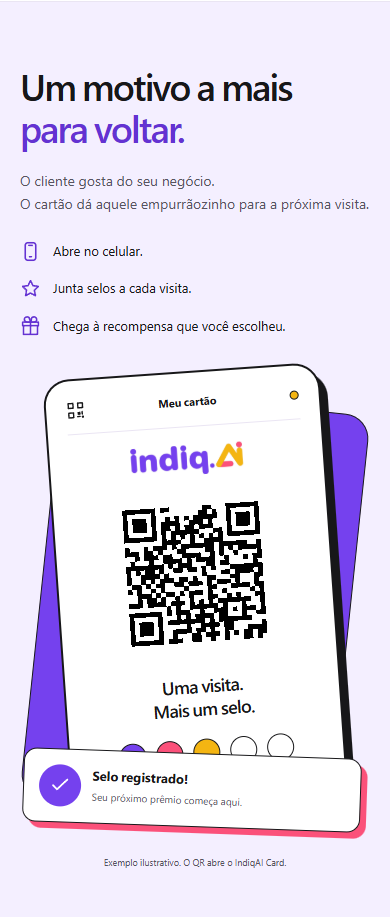
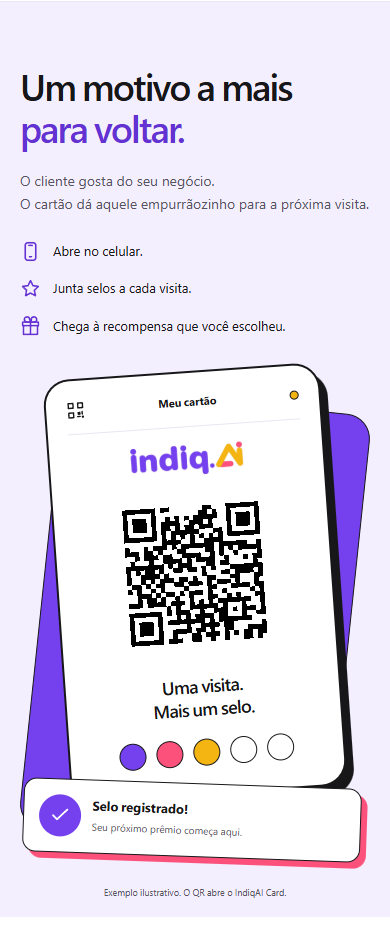
Keep new stamp visible and refine touch press feedback

Changed region(s): [[0.0308, 0.0607, 0.9538, 0.9414], [0.5846, 0.0607, 0.7692, 0.1215], [0.0923, 0.4252, 0.1231, 0.4859]]

diff --git a/styles.css b/styles.css
@@ -8,13 +8,12 @@
 .site-header{position:sticky;top:0;z-index:20;background:rgba(255,255,255,.97);border-bottom:1px solid #eae5f3}.header-inner{height:84px;display:flex;align-items:center;justify-content:space-between;gap:24px}.brand{display:inline-flex;align-items:center;min-height:44px;flex:none}.brand img{width:148px;height:40px;object-fit:contain}.nav{display:flex;align-items:center;gap:30px}.nav>a:not(.button){font-size:13px;display:inline-flex;align-items:center;min-height:44px;text-decoration:none}.nav>a:not(.button):hover{color:var(--purple-ink)}.menu-toggle{display:none}
 .hero{display:grid;grid-template-columns:minmax(0,1.08fr) minmax(0,1fr);align-items:center;gap:30px;padding-block:62px 38px;min-height:720px}.hero-copy{padding-bottom:30px}.hero h1{font-size:clamp(56px,5.7vw,80px);letter-spacing:-.06em;line-height:1.04}.hero h1 span{display:block}.hero-lede{max-width:480px;margin-top:26px;font-size:18px;line-height:1.7;color:var(--muted)}.hero-actions{display:flex;align-items:flex-start;flex-direction:column;gap:12px;margin-top:28px}.hero-note{font-size:12px;color:var(--muted);margin-top:13px}.hero-scene{position:relative;height:610px;min-width:0;isolation:isolate}.scene-backplate{position:absolute;inset:75px 26px 90px 23px;border-radius:38px;background:var(--lavender);transform:rotate(5deg);z-index:-1}.hero-phone{position:absolute;width:375px;max-width:86%;height:auto;top:4px;left:50%;transform:translateX(-50%) rotate(-4deg);border-radius:36px}.scene-dot{position:absolute;width:30px;height:30px;border:1.5px solid var(--black);border-radius:50%;z-index:1}.dot-pink{background:var(--pink);top:68px;right:20px;box-shadow:3px 3px 0 var(--black)}.dot-gold{background:var(--gold);bottom:94px;left:3px;width:20px;height:20px}.visit-ticket{position:absolute;bottom:67px;left:18px;right:12px;max-width:370px;display:flex;align-items:center;gap:13px;background:#fff;border:1.5px solid var(--black);border-radius:13px;padding:16px;box-shadow:6px 6px 0 var(--violet);transform:rotate(-2deg);z-index:2}.ticket-check{width:44px;height:44px;border-radius:50%;border:1.5px solid var(--black);display:grid;place-items:center;background:var(--gold);flex:none}.visit-ticket strong{display:block;font-size:15px;line-height:1.4}.visit-ticket div>span{font-size:11px;display:block;margin-top:3px;color:var(--muted)}.scene-caption{position:absolute;bottom:4px;left:0;width:100%;text-align:center;font-size:10px;color:var(--muted)}
 .brand-line{border-block:1px solid #eae5f3;background:#faf8ff}.brand-line>.wrap{display:flex;justify-content:space-between;gap:20px;padding-block:23px}.brand-line span{display:flex;align-items:center;gap:12px;font-size:13px;font-weight:500}.brand-line svg{color:var(--purple-ink);width:22px;height:22px}.section{padding-block:112px}h2{font-size:clamp(34px,3.8vw,50px);line-height:1.16}.section-intro>p,.customer-copy>p,.owner-heading>p,.audience-intro>p,.faq-intro>p{margin-top:22px;color:var(--muted);font-size:16px}.how{display:grid;grid-template-columns:minmax(0,1fr) minmax(0,1fr);column-gap:90px;align-items:start}.steps{list-style:none;margin:0;padding:0;grid-column:2;grid-row:1 / span 2}.steps li{display:grid;grid-template-columns:66px minmax(0,1fr);gap:23px;align-items:start;padding-bottom:33px;position:relative}.steps li:last-child{padding-bottom:0}.steps li:not(:last-child)::after{content:'';position:absolute;top:76px;bottom:10px;left:31px;width:1px;background:#d9c9fb}.step-art{width:62px;height:62px;display:grid;place-items:center;border:1.5px solid var(--black);border-radius:14px;background:var(--lavender);box-shadow:4px 4px 0 var(--violet)}.steps li:nth-child(2) .step-art{box-shadow:4px 4px 0 var(--pink)}.steps li:nth-child(3) .step-art{box-shadow:4px 4px 0 var(--gold)}.step-art svg{width:29px;height:29px;color:var(--purple-ink)}.steps h3{font-size:22px;letter-spacing:-.035em;margin:4px 0 9px}.steps h3 span{color:var(--purple-ink)}.steps p{font-size:14px;line-height:1.75;color:var(--muted);max-width:330px}.how-cta{justify-self:start;align-self:end;margin-top:35px}
-.customer-section{background:var(--lavender);border-block:1px solid #eae5f3}.customer-layout{display:grid;grid-template-columns:minmax(0,1fr) minmax(0,1fr);align-items:center;gap:60px;padding-block:88px}.customer-copy>p{max-width:425px}.benefit-list{list-style:none;padding:0;margin:26px 0 0;display:grid;gap:18px}.benefit-list li{display:flex;align-items:center;gap:14px;font-size:14px}.benefit-list svg{color:var(--purple-ink);width:23px;height:23px}.qr-scene{position:relative;height:530px;isolation:isolate}.qr-backplate{position:absolute;inset:29px 40px 56px;border:1.5px solid var(--black);border-radius:25px;background:var(--violet);transform:rotate(6deg);z-index:-1}.qr-card{position:absolute;width:302px;max-width:80%;left:50%;top:0;transform:translateX(-50%) rotate(-4deg);border:2px solid var(--black);border-radius:26px;background:#fff;padding:23px 25px 30px;box-shadow:7px 9px 0 var(--black)}.qr-heading{display:flex;align-items:center;justify-content:space-between;gap:10px;padding-bottom:16px;border-bottom:1px solid #eae5f3;font-size:12px}.qr-heading svg{width:19px;height:19px}.qr-dot{width:9px;height:9px;border:1px solid var(--black);border-radius:50%;background:var(--gold)}.qr-brand{display:flex;justify-content:center;margin:22px 0 17px}.qr-brand img{width:112px;height:30px}.qr-code{position:relative;background:#fff;width:192px;max-width:100%;margin:auto}.qr-code img{width:100%;height:auto}.scan-line{position:absolute;inset:10% -3px auto;height:3px;background:var(--violet);opacity:0;box-shadow:0 0 0 5px #7541ee18;pointer-events:none}.qr-card>p{text-align:center;font-size:19px;font-weight:600;line-height:1.3;letter-spacing:-.04em;margin-top:14px}.demo-stamps{display:flex;gap:12px;justify-content:center;margin-top:20px}.demo-stamps i{display:block;width:29px;height:29px;border:1.5px solid var(--black);border-radius:50%;background:#fff}.demo-stamps i:first-child{background:var(--violet)}.demo-stamps i:nth-child(2){background:var(--pink)}.demo-stamps .stamp-new{background:var(--gold)}.reward-ticket{position:absolute;bottom:54px;left:17px;right:0;max-width:365px;display:flex;align-items:center;gap:13px;background:#fff;border:1.5px solid var(--black);border-radius:13px;padding:18px;box-shadow:6px 6px 0 var(--pink);transform:rotate(2deg)}.reward-ticket>span{width:42px;height:42px;display:grid;place-items:center;background:var(--violet);color:#fff;border-radius:50%;flex:none}.reward-ticket strong{font-size:14px;line-height:1.4;display:block}.reward-ticket p{font-size:11px;color:var(--muted);margin-top:4px}.qr-caption{position:absolute;bottom:0;left:0;right:0;text-align:center;font-size:10px;color:var(--muted)}
+.customer-section{background:var(--lavender);border-block:1px solid #eae5f3}.customer-layout{display:grid;grid-template-columns:minmax(0,1fr) minmax(0,1fr);align-items:center;gap:60px;padding-block:88px}.customer-copy>p{max-width:425px}.benefit-list{list-style:none;padding:0;margin:26px 0 0;display:grid;gap:18px}.benefit-list li{display:flex;align-items:center;gap:14px;font-size:14px}.benefit-list svg{color:var(--purple-ink);width:23px;height:23px}.qr-scene{position:relative;height:580px;isolation:isolate}.qr-backplate{position:absolute;inset:29px 40px 56px;border:1.5px solid var(--black);border-radius:25px;background:var(--violet);transform:rotate(6deg);z-index:-1}.qr-card{position:absolute;width:302px;max-width:80%;left:50%;top:0;transform:translateX(-50%) rotate(-4deg);border:2px solid var(--black);border-radius:26px;background:#fff;padding:23px 25px 30px;box-shadow:7px 9px 0 var(--black)}.qr-heading{display:flex;align-items:center;justify-content:space-between;gap:10px;padding-bottom:16px;border-bottom:1px solid #eae5f3;font-size:12px}.qr-heading svg{width:19px;height:19px}.qr-dot{width:9px;height:9px;border:1px solid var(--black);border-radius:50%;background:var(--gold)}.qr-brand{display:flex;justify-content:center;margin:22px 0 17px}.qr-brand img{width:112px;height:30px}.qr-code{position:relative;background:#fff;width:192px;max-width:100%;margin:auto}.qr-code img{width:100%;height:auto}.scan-line{position:absolute;inset:10% -3px auto;height:3px;background:var(--violet);opacity:0;box-shadow:0 0 0 5px #7541ee18;pointer-events:none}.qr-card>p{text-align:center;font-size:19px;font-weight:600;line-height:1.3;letter-spacing:-.04em;margin-top:14px}.demo-stamps{display:flex;gap:12px;justify-content:center;margin-top:20px}.demo-stamps i{display:block;width:29px;height:29px;border:1.5px solid var(--black);border-radius:50%;background:#fff}.demo-stamps i:first-child{background:var(--violet)}.demo-stamps i:nth-child(2){background:var(--pink)}.demo-stamps .stamp-new{background:var(--gold)}.reward-ticket{position:absolute;bottom:54px;left:17px;right:0;max-width:365px;display:flex;align-items:center;gap:13px;background:#fff;border:1.5px solid var(--black);border-radius:13px;padding:18px;box-shadow:6px 6px 0 var(--pink);transform:rotate(2deg)}.reward-ticket>span{width:42px;height:42px;display:grid;place-items:center;background:var(--violet);color:#fff;border-radius:50%;flex:none}.reward-ticket strong{font-size:14px;line-height:1.4;display:block}.reward-ticket p{font-size:11px;color:var(--muted);margin-top:4px}.qr-caption{position:absolute;bottom:0;left:0;right:0;text-align:center;font-size:10px;color:var(--muted)}
 .owner-heading{display:flex;justify-content:space-between;gap:40px;align-items:end}.owner-heading h2{font-size:43px}.owner-heading>p{max-width:390px}.owner-benefits{display:grid;grid-template-columns:repeat(3,minmax(0,1fr));gap:44px;margin-top:55px}.owner-benefits article{border-top:1px solid #d9d3e4;padding-top:28px}.owner-mark{display:block;width:25px;height:25px;border:1.5px solid var(--black);border-radius:50%;box-shadow:3px 3px 0 var(--black);margin-bottom:24px}.mark-purple{background:var(--violet)}.mark-pink{background:var(--pink)}.mark-gold{background:var(--gold)}.owner-benefits h3{font-size:21px;margin-bottom:12px}.owner-benefits p{color:var(--muted);font-size:14px;max-width:290px}.audience-section{background:#faf8ff;border-block:1px solid #eae5f3}.audience-intro{display:flex;justify-content:space-between;align-items:end;gap:40px}.audience-intro>p{padding-bottom:4px}.audience-grid{display:grid;grid-template-columns:repeat(3,minmax(0,1fr));gap:22px;margin-top:38px}.business-card{position:relative;aspect-ratio:1.5;border:1.5px solid var(--black);border-radius:13px;overflow:hidden;background:var(--black);transition:box-shadow 200ms var(--ease),transform 200ms var(--ease)}.business-card img{width:100%;height:100%;object-fit:cover;transition:transform 450ms var(--ease)}.business-card::after{content:'';position:absolute;inset:0;background:linear-gradient(transparent 40%,#000c)}.business-card figcaption{position:absolute;z-index:1;left:20px;bottom:17px;color:#fff;font-size:18px;font-weight:500;letter-spacing:-.025em}.business-card:hover img{transform:scale(1.035)}.business-card:hover{transform:translate(-2px,-2px);box-shadow:5px 5px 0 var(--violet)}.audience-cta{margin-top:34px}
 .faq{display:grid;grid-template-columns:minmax(0,.9fr) minmax(0,1.1fr);gap:60px}.faq-intro h2{font-size:44px}.faq-list{display:grid;gap:12px;align-content:start;min-width:0}.faq-item{border:1.5px solid var(--black);border-radius:10px;background:#fff;transition:border-color 180ms,box-shadow 180ms var(--ease)}.faq-item[open]{border-color:var(--violet);box-shadow:4px 4px 0 var(--violet)}.faq-item summary{min-height:68px;padding:19px 20px;display:flex;align-items:center;justify-content:space-between;gap:22px;cursor:pointer;list-style:none;font-size:14px;font-weight:500;line-height:1.55;-webkit-tap-highlight-color:transparent}.faq-item summary::-webkit-details-marker{display:none}.faq-plus{position:relative;width:20px;height:20px;flex:none;transition:transform 230ms var(--ease);color:var(--purple-ink)}.faq-plus::before,.faq-plus::after{content:'';position:absolute;background:currentColor;border-radius:2px}.faq-plus::before{width:16px;height:2px;left:2px;top:9px}.faq-plus::after{width:2px;height:16px;left:9px;top:2px}.faq-item[open] .faq-plus{transform:rotate(45deg)}.faq-item[data-expanded='false'] .faq-plus{transform:none}.faq-body{padding:0 20px 22px}.faq-body p{font-size:14px;line-height:1.8;color:var(--muted)}
 .closing{background:linear-gradient(145deg,#7541ee,#693ae3);color:#fff}.closing-inner{display:grid;grid-template-columns:minmax(0,1.35fr) minmax(0,1fr);gap:70px;align-items:center;padding-block:96px}.closing h2{font-size:51px;line-height:1.17}.closing h2 span{color:#ffe099}.closing-copy>p{font-size:16px;color:#fff;margin:24px 0 30px}.button-on-purple{--shadow:var(--pink)}.closing-card{background:var(--neutral);color:var(--black);border:2px solid var(--black);border-radius:18px;padding:28px;box-shadow:10px 12px 0 var(--black);transform:rotate(-4deg);max-width:370px}.closing-card>span{font-size:12px}.closing-card strong{display:block;margin-top:17px;font-weight:600;line-height:1.18;font-size:29px;letter-spacing:-.05em}.closing-card>div{display:flex;gap:12px;margin:25px 0}.closing-card i{width:39px;height:39px;border-radius:50%;border:1.5px solid var(--black);background:var(--violet)}.closing-card i:nth-child(2){background:var(--pink)}.closing-card i:nth-child(3){background:var(--gold)}.closing-card i:nth-child(4){background:var(--black)}.closing-card i:nth-child(5){background:#fff}.closing-card small{font-size:10px}.footer-inner{display:grid;grid-template-columns:auto 1fr;column-gap:50px;row-gap:16px;padding-block:38px}.footer-inner>p{font-size:12px;align-self:center;color:var(--muted)}.footer-inner>div{grid-column:1/-1;display:flex;gap:25px;align-items:center;border-top:1px solid #eae5f3;padding-top:22px;font-size:12px}.footer-inner>div a{display:inline-flex;min-height:44px;align-items:center;text-decoration:none}.footer-inner>div a:hover{color:var(--purple-ink)}.footer-inner>div span{margin-left:auto;color:var(--muted)}
 @media(hover:none),(pointer:coarse){.button{border-color:var(--shadow);box-shadow:5px 5px 0 var(--shadow);transform:translate(-2px,-2px)}.button svg{transform:translateX(2px)}.button:active{transform:translate(1px,1px);box-shadow:2px 2px 0 var(--shadow)}}
 @media(max-width:1000px){.nav{gap:18px}.hero{gap:16px;min-height:650px}.hero h1{font-size:58px}.hero-scene{height:560px}.hero-phone{width:335px}.scene-caption{font-size:9px}.visit-ticket{left:4px;right:4px;bottom:55px;padding:13px}.hero-lede{font-size:16px}.how{column-gap:50px}.customer-layout{gap:30px}.owner-heading{display:block}.owner-heading>p{max-width:none}.owner-heading h2{font-size:42px}.faq{gap:40px}.faq-intro h2{font-size:38px}.closing-inner{gap:40px}.closing h2{font-size:42px}.closing-card{padding:22px}.closing-card strong{font-size:26px}.closing-card>div{gap:9px}.closing-card i{width:33px;height:33px}}
-@media(max-width:767px){:root{scroll-padding-top:84px}.wrap{width:calc(100% - 40px)}.header-inner{height:72px;gap:12px;flex-wrap:wrap}.brand img{width:124px;height:34px}.menu-toggle{display:flex;width:44px;height:44px;padding:12px 9px;border:0;background:transparent;flex-direction:column;justify-content:center;gap:6px;color:var(--black);cursor:pointer}.menu-toggle span{display:block;width:24px;height:2px;background:currentColor;transition:transform 180ms var(--ease)}.menu-toggle[aria-expanded=true] span:first-child{transform:translateY(4px) rotate(45deg)}.menu-toggle[aria-expanded=true] span:last-child{transform:translateY(-4px) rotate(-45deg)}.nav{display:flex;flex-wrap:wrap;width:100%;gap:12px 22px;padding-bottom:22px}html:not(.js) .header-inner{height:auto;padding-top:14px}.js .nav{display:none}.js .nav.is-open{display:flex}.header-inner:has(.nav.is-open){height:auto;min-height:72px;padding-top:14px}.header-inner:has(.nav.is-open) .menu-toggle{margin-bottom:10px}.header-inner:has(.nav.is-open) .brand{margin-bottom:10px}.nav .button{flex-basis:100%;margin-right:5px}.hero{display:flex;flex-direction:column;align-items:stretch;gap:0;padding-block:34px 27px;min-height:0}.hero-copy{padding:0}.hero h1{font-size:clamp(39px,11.2vw,57px);line-height:1.06;letter-spacing:-.055em}.hero-lede{margin-top:18px;font-size:15px;line-height:1.7;max-width:360px}.desktop-break{display:none}.hero-actions{gap:12px;margin-top:23px}.hero-actions .button{border-color:var(--shadow);box-shadow:5px 5px 0 var(--shadow);transform:translate(-2px,-2px);width:calc(100% - 5px);font-size:14px;justify-content:space-between;padding-inline:19px}.hero-actions .text-link{font-size:13px;min-height:36px}.hero-note{font-size:12px;margin-top:6px}.hero-scene{height:480px;margin-top:27px;width:100%;max-width:430px;align-self:center}.hero-phone{width:302px;max-width:86%;top:0}.scene-backplate{inset:45px 18px 60px 13px;border-radius:28px}.dot-pink{width:23px;height:23px;top:37px;right:11px}.dot-gold{left:6px;bottom:84px;width:17px;height:17px}.visit-ticket{left:7px;right:12px;bottom:41px;padding:13px;gap:11px;box-shadow:5px 5px 0 var(--violet);max-width:320px}.ticket-check{width:38px;height:38px}.visit-ticket strong{font-size:13px}.visit-ticket div>span{font-size:10px}.scene-caption{font-size:9px;bottom:0}.brand-line>.wrap{display:grid;gap:13px;padding-block:23px}.brand-line span{font-size:12px;gap:11px}.brand-line svg{width:20px;height:20px}.section{padding-block:68px}h2{font-size:clamp(33px,9.4vw,42px);line-height:1.16}.section-intro>p,.customer-copy>p,.owner-heading>p,.audience-intro>p,.faq-intro>p{font-size:14px;margin-top:17px}.how{display:flex;flex-direction:column;gap:0}.steps{margin-top:35px;width:100%}.steps li{grid-template-columns:53px minmax(0,1fr);gap:20px;padding-bottom:32px}.step-art{width:50px;height:50px;border-radius:12px;box-shadow:3px 3px 0 var(--violet)}.step-art svg{width:25px;height:25px}.steps li:not(:last-child)::after{left:24px;top:63px;bottom:12px}.steps h3{font-size:19px;margin:0 0 9px}.steps p{font-size:13px;line-height:1.75}.how-cta{border-color:var(--shadow);box-shadow:5px 5px 0 var(--shadow);transform:translate(-2px,-2px);width:calc(100% - 5px);font-size:14px;justify-content:space-between;margin-top:29px}.customer-layout{display:flex;flex-direction:column;align-items:stretch;gap:34px;padding-block:66px 44px}.benefit-list{gap:16px;margin-top:25px}.benefit-list li{font-size:13px;gap:12px}.benefit-list svg{width:21px;height:21px}.qr-scene{height:505px;width:100%;max-width:430px;align-self:center}.qr-card{width:277px;max-width:83%;padding:20px 20px 27px}.qr-backplate{inset:28px 20px 62px}.qr-code{width:174px}.qr-heading{font-size:11px;padding-bottom:14px}.qr-brand{margin-block:18px 12px}.qr-card>p{font-size:18px}.demo-stamps{gap:10px;margin-top:17px}.demo-stamps i{width:27px;height:27px}.reward-ticket{left:3px;right:9px;bottom:49px;padding:15px;gap:11px}.reward-ticket strong{font-size:13px}.reward-ticket p{font-size:10px}.qr-caption{font-size:9px;bottom:5px}.owner-heading{display:block}.owner-heading h2{font-size:clamp(31px,8.7vw,39px)}.owner-benefits{display:block;margin-top:31px}.owner-benefits article{padding-block:23px 25px;display:grid;grid-template-columns:30px minmax(0,1fr);gap:9px 15px}.owner-mark{width:21px;height:21px;margin:2px 0 0;grid-row:1 / span 2}.owner-benefits h3{font-size:19px;margin:0}.owner-benefits p{font-size:13px;max-width:none}.owner-benefits article:last-child{padding-bottom:0}.audience-intro{display:block}.audience-grid{grid-template-columns:repeat(2,minmax(0,1fr));gap:12px;margin-top:29px}.business-card{aspect-ratio:1 / 1.05;border-radius:10px}.business-card figcaption{left:11px;bottom:11px;font-size:13px}.business-card::after{background:linear-gradient(transparent 30%,#000d)}.audience-cta{border-color:var(--shadow);box-shadow:5px 5px 0 var(--shadow);transform:translate(-2px,-2px);width:calc(100% - 5px);font-size:14px;justify-content:space-between;margin-top:25px;padding-inline:17px}.faq{display:block}.faq-intro h2{font-size:clamp(32px,9.2vw,40px)}.faq-list{margin-top:30px;gap:12px;margin-right:4px}.faq-item summary{font-size:13px;padding:17px 15px;gap:15px;min-height:66px}.faq-body{padding:0 15px 20px}.faq-body p{font-size:13px;line-height:1.8}.closing-inner{display:flex;flex-direction:column;align-items:stretch;gap:47px;padding-block:62px 69px}.closing h2{font-size:clamp(33px,9.4vw,43px)}.closing-copy>p{font-size:14px;margin:22px 0 27px}.closing .button{font-size:14px;width:calc(100% - 5px);justify-content:space-between;padding-inline:17px;box-shadow:5px 5px 0 var(--pink);transform:translate(-2px,-2px);border-color:var(--pink)}.closing-card{width:calc(100% - 30px);max-width:340px;align-self:center;padding:25px;box-shadow:7px 9px 0 var(--black)}.closing-card strong{font-size:27px}.closing-card i{width:34px;height:34px}.closing-card>div{gap:13px}.footer-inner{display:block;padding-block:28px}.footer-inner>p{font-size:11px;margin-top:9px}.footer-inner>div{display:flex;flex-wrap:wrap;gap:5px 22px;margin-top:20px;padding-top:15px;font-size:11px}.footer-inner>div span{width:100%;margin:8px 0 0}}
-@media(max-width:350px){.wrap{width:calc(100% - 32px)}.hero h1{font-size:38px}.hero-scene{height:435px}.hero-phone{width:275px;max-width:88%}.visit-ticket{padding:11px;left:1px;right:7px;bottom:38px}.visit-ticket div>span{font-size:10px}.hero-lede{font-size:14px}.button{font-size:13px;gap:12px}.qr-scene{height:476px}.qr-card{padding-inline:18px;max-width:85%}.qr-code{width:160px}.qr-backplate{inset-inline:18px}.reward-ticket{padding:12px;gap:10px;bottom:43px}.reward-ticket p{font-size:10px}.closing-card{padding:21px}.closing-card>div{gap:10px}.closing-card i{width:31px;height:31px}.closing h2{font-size:33px}}
+@media(max-width:767px){.button{border-color:var(--shadow);box-shadow:5px 5px 0 var(--shadow);transform:translate(-2px,-2px);}.button:active,.closing .button:active{transform:translate(1px,1px);box-shadow:2px 2px 0 var(--shadow)}:root{scroll-padding-top:84px}.wrap{width:calc(100% - 40px)}.header-inner{height:72px;gap:12px;flex-wrap:wrap}.brand img{width:124px;height:34px}.menu-toggle{display:flex;width:44px;height:44px;padding:12px 9px;border:0;background:transparent;flex-direction:column;justify-content:center;gap:6px;color:var(--black);cursor:pointer}.menu-toggle span{display:block;width:24px;height:2px;background:currentColor;transition:transform 180ms var(--ease)}.menu-toggle[aria-expanded=true] span:first-child{transform:translateY(4px) rotate(45deg)}.menu-toggle[aria-expanded=true] span:last-child{transform:translateY(-4px) rotate(-45deg)}.nav{display:flex;flex-wrap:wrap;width:100%;gap:12px 22px;padding-bottom:22px}html:not(.js) .header-inner{height:auto;padding-top:14px}.js .nav{display:none}.js .nav.is-open{display:flex}.header-inner:has(.nav.is-open){height:auto;min-height:72px;padding-top:14px}.header-inner:has(.nav.is-open) .menu-toggle{margin-bottom:10px}.header-inner:has(.nav.is-open) .brand{margin-bottom:10px}.nav .button{flex-basis:100%;margin-right:5px}.hero{display:flex;flex-direction:column;align-items:stretch;gap:0;padding-block:34px 27px;min-height:0}.hero-copy{padding:0}.hero h1{font-size:clamp(39px,11.2vw,57px);line-height:1.06;letter-spacing:-.055em}.hero-lede{margin-top:18px;font-size:15px;line-height:1.7;max-width:360px}.desktop-break{display:none}.hero-actions{gap:12px;margin-top:23px}.hero-actions .button{width:calc(100% - 5px);font-size:14px;justify-content:space-between;padding-inline:19px}.hero-actions .text-link{font-size:13px;min-height:36px}.hero-note{font-size:12px;margin-top:6px}.hero-scene{height:480px;margin-top:27px;width:100%;max-width:430px;align-self:center}.hero-phone{width:302px;max-width:86%;top:0}.scene-backplate{inset:45px 18px 60px 13px;border-radius:28px}.dot-pink{width:23px;height:23px;top:37px;right:11px}.dot-gold{left:6px;bottom:84px;width:17px;height:17px}.visit-ticket{left:7px;right:12px;bottom:41px;padding:13px;gap:11px;box-shadow:5px 5px 0 var(--violet);max-width:320px}.ticket-check{width:38px;height:38px}.visit-ticket strong{font-size:13px}.visit-ticket div>span{font-size:10px}.scene-caption{font-size:9px;bottom:0}.brand-line>.wrap{display:grid;gap:13px;padding-block:23px}.brand-line span{font-size:12px;gap:11px}.brand-line svg{width:20px;height:20px}.section{padding-block:68px}h2{font-size:clamp(33px,9.4vw,42px);line-height:1.16}.section-intro>p,.customer-copy>p,.owner-heading>p,.audience-intro>p,.faq-intro>p{font-size:14px;margin-top:17px}.how{display:flex;flex-direction:column;gap:0}.steps{margin-top:35px;width:100%}.steps li{grid-template-columns:53px minmax(0,1fr);gap:20px;padding-bottom:32px}.step-art{width:50px;height:50px;border-radius:12px;box-shadow:3px 3px 0 var(--violet)}.step-art svg{width:25px;height:25px}.steps li:not(:last-child)::after{left:24px;top:63px;bottom:12px}.steps h3{font-size:19px;margin:0 0 9px}.steps p{font-size:13px;line-height:1.75}.how-cta{width:calc(100% - 5px);font-size:14px;justify-content:space-between;margin-top:29px}.customer-layout{display:flex;flex-direction:column;align-items:stretch;gap:34px;padding-block:66px 44px}.benefit-list{gap:16px;margin-top:25px}.benefit-list li{font-size:13px;gap:12px}.benefit-list svg{width:21px;height:21px}.qr-scene{height:535px;width:100%;max-width:430px;align-self:center}.qr-card{width:277px;max-width:83%;padding:20px 20px 27px}.qr-backplate{inset:28px 20px 62px}.qr-code{width:174px}.qr-heading{font-size:11px;padding-bottom:14px}.qr-brand{margin-block:18px 12px}.qr-card>p{font-size:18px}.demo-stamps{gap:10px;margin-top:17px}.demo-stamps i{width:27px;height:27px}.reward-ticket{left:3px;right:9px;bottom:49px;padding:15px;gap:11px}.reward-ticket strong{font-size:13px}.reward-ticket p{font-size:10px}.qr-caption{font-size:9px;bottom:5px}.owner-heading{display:block}.owner-heading h2{font-size:clamp(31px,8.7vw,39px)}.owner-benefits{display:block;margin-top:31px}.owner-benefits article{padding-block:23px 25px;display:grid;grid-template-columns:30px minmax(0,1fr);gap:9px 15px}.owner-mark{width:21px;height:21px;margin:2px 0 0;grid-row:1 / span 2}.owner-benefits h3{font-size:19px;margin:0}.owner-benefits p{font-size:13px;max-width:none}.owner-benefits article:last-child{padding-bottom:0}.audience-intro{display:block}.audience-grid{grid-template-columns:repeat(2,minmax(0,1fr));gap:12px;margin-top:29px}.business-card{aspect-ratio:1 / 1.05;border-radius:10px}.business-card figcaption{left:11px;bottom:11px;font-size:13px}.business-card::after{background:linear-gradient(transparent 30%,#000d)}.audience-cta{width:calc(100% - 5px);font-size:14px;justify-content:space-between;margin-top:25px;padding-inline:17px}.faq{display:block}.faq-intro h2{font-size:clamp(32px,9.2vw,40px)}.faq-list{margin-top:30px;gap:12px;margin-right:4px}.faq-item summary{font-size:13px;padding:17px 15px;gap:15px;min-height:66px}.faq-body{padding:0 15px 20px}.faq-body p{font-size:13px;line-height:1.8}.closing-inner{display:flex;flex-direction:column;align-items:stretch;gap:47px;padding-block:62px 69px}.closing h2{font-size:clamp(33px,9.4vw,43px)}.closing-copy>p{font-size:14px;margin:22px 0 27px}.closing .button{font-size:14px;width:calc(100% - 5px);justify-content:space-between;padding-inline:17px;box-shadow:5px 5px 0 var(--pink);transform:translate(-2px,-2px);border-color:var(--pink)}.closing-card{width:calc(100% - 30px);max-width:340px;align-self:center;padding:25px;box-shadow:7px 9px 0 var(--black)}.closing-card strong{font-size:27px}.closing-card i{width:34px;height:34px}.closing-card>div{gap:13px}.footer-inner{display:block;padding-block:28px}.footer-inner>p{font-size:11px;margin-top:9px}.footer-inner>div{display:flex;flex-wrap:wrap;gap:5px 22px;margin-top:20px;padding-top:15px;font-size:11px}.footer-inner>div span{width:100%;margin:8px 0 0}}
+@media(max-width:350px){.wrap{width:calc(100% - 32px)}.hero h1{font-size:38px}.hero-scene{height:435px}.hero-phone{width:275px;max-width:88%}.visit-ticket{padding:11px;left:1px;right:7px;bottom:38px}.visit-ticket div>span{font-size:10px}.hero-lede{font-size:14px}.button{font-size:13px;gap:12px}.qr-scene{height:506px}.qr-card{padding-inline:18px;max-width:85%}.qr-code{width:160px}.qr-backplate{inset-inline:18px}.reward-ticket{padding:12px;gap:10px;bottom:43px}.reward-ticket p{font-size:10px}.closing-card{padding:21px}.closing-card>div{gap:10px}.closing-card i{width:31px;height:31px}.closing h2{font-size:33px}}
 @media(prefers-reduced-motion:reduce){:root{scroll-behavior:auto}*,*::before,*::after{transition:none!important;animation:none!important}.button:hover svg,.business-card:hover img{transform:none}}
-

diff --git a/ASSET-SOURCES.md b/ASSET-SOURCES.md
@@ -13,5 +13,3 @@
 - `assets/demo-qr.svg`: generated locally with the qrcode package; encodes `https://card.indiqai.com/#inicio`. Labeled as a demonstration on the page.
 - `assets/fonts/poppins-*.woff2`: supplied local fonts, license `assets/fonts/OFL.txt`.
 - Inline SVG icons authored for this page. No AI-generated imagery.
-
-
